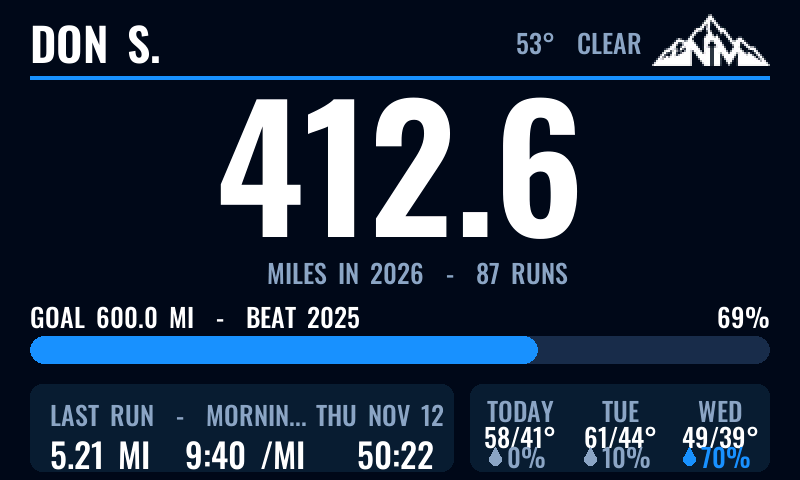
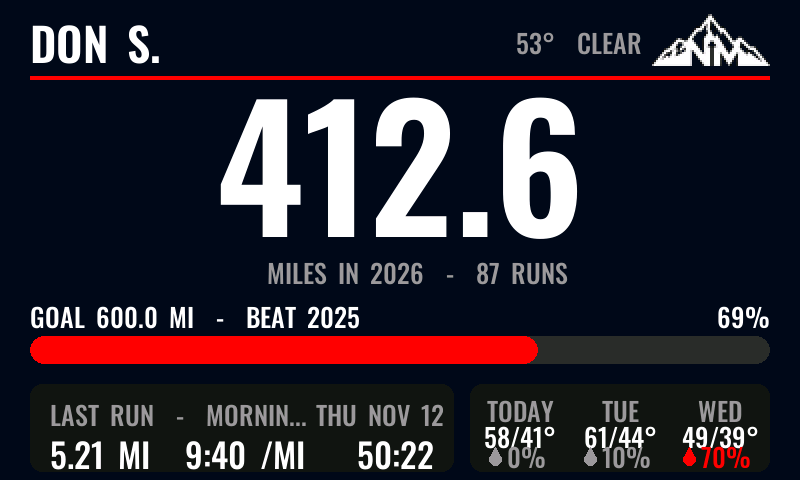
CrowPanel7: per-runner color themes, year-only race for Apple runners
Each runner picks their own theme (theme2 pref, two Colors rows on the
SCREEN tab in duo mode); the split screen draws each half in that
runner's theme. Together view shows only the THIS YEAR race column when
either runner uses Apple, which reports totals only.

diff --git a/firmware-crowpanel7/src/main.cpp b/firmware-crowpanel7/src/main.cpp
@@ -46,7 +46,7 @@ bool settingsOpen = false;
 enum SetTab { T_GOAL, T_RUN, T_SCR, T_LED, T_WX, T_SYS };
 const char* const SET_TABS[] = {"GOAL", "RUNNERS", "SCREEN", "LIGHTS", "WEATHER", "SYSTEM"};
 enum SetId {
-  S_PICK, S_NAME, S_GOAL, S_KINDS, S_LINK, S_DUO, S_SHARED, S_THEME, S_BRIGHT, S_ADIM, S_NIGHT, S_PHOTO,
+  S_PICK, S_NAME, S_GOAL, S_KINDS, S_LINK, S_DUO, S_SHARED, S_THEME, S_THEME2, S_BRIGHT, S_ADIM, S_NIGHT, S_PHOTO,
   S_LEDON, S_LEDFX, S_LEDN, S_PLACE, S_TZ, S_WIFI, S_OTA, S_SYNC, S_PHONE, S_ERASE
 };
 ui::SetRow setRows[9];
@@ -250,6 +250,7 @@ void loadSettings() {
   c.bright = prefs.getUChar("bright", 200);
   c.kinds = prefs.getUChar("kinds", prefs.getBool("walks", false) ? 3 : 1);
   c.theme = prefs.getUChar("theme", 0);
+  c.theme2 = prefs.getUChar("theme2", 0);
   c.autoDim = prefs.getBool("adim", true);
   c.led = prefs.getUChar("led", 1);
   c.place = prefs.getString("place", "");
@@ -718,9 +719,12 @@ void setApply(int id, int dir) {  // dir: -1 left/minus, +1 right/plus, 0 the ro
       break;
     case S_SHARED: c.sharedGoal = max(0.0f, c.sharedGoal + dir * 50); break;
     case S_THEME:
-      c.theme = (c.theme + dir + ui::themeCount()) % ui::themeCount();
-      ui::setTheme(c.theme);
+    case S_THEME2: {
+      uint8_t& t = app::themeOf(id == S_THEME2 ? 1 : (c.duo ? 0 : setRunner));
+      t = (uint8_t)((t + dir + ui::themeCount()) % ui::themeCount());
+      ui::setTheme(c.duo ? t : c.theme);
       break;
+    }
     case S_BRIGHT: c.bright = constrain((int)c.bright + dir * 13, 20, 255); break;
     case S_ADIM: c.autoDim = !c.autoDim; break;
     case S_NIGHT: c.nightClock = !c.nightClock; break;
@@ -782,7 +786,15 @@ void buildRows() {
       sRow(0, ui::ROW_LINE, "Tap the miles to see both runners together.");
       break;
     case T_SCR:
-      sRow(S_THEME, ui::ROW_CHOICE, "Colors", ui::themeName(c.theme));
+      if (c.duo) {
+        char lbl[44];
+        const char* n1 = app::nameOf(0).length() ? app::nameOf(0).c_str() : "runner 1";
+        const char* n2 = app::nameOf(1).length() ? app::nameOf(1).c_str() : "runner 2";
+        snprintf(lbl, sizeof lbl, "Colors, %s", n1);
+        sRow(S_THEME, ui::ROW_CHOICE, lbl, ui::themeName(app::themeOf(0)));
+        snprintf(lbl, sizeof lbl, "Colors, %s", n2);
+        sRow(S_THEME2, ui::ROW_CHOICE, lbl, ui::themeName(app::themeOf(1)));
+      } else sRow(S_THEME, ui::ROW_CHOICE, "Colors", ui::themeName(c.theme));
       { char v[12]; snprintf(v, sizeof v, "%d%%", c.bright * 100 / 255); sRow(S_BRIGHT, ui::ROW_STEP, "Brightness", v); }
       sRow(S_ADIM, ui::ROW_TOGGLE, "Dim in a dark room", "", c.autoDim);
       sRow(S_NIGHT, ui::ROW_TOGGLE, "Night clock", "", c.nightClock, "Dim clock instead of off");
@@ -1097,6 +1109,7 @@ void saveSettings() {
   prefs.putUChar("bright", cfg.bright);
   prefs.putUChar("kinds", cfg.kinds);
   prefs.putUChar("theme", cfg.theme);
+  prefs.putUChar("theme2", cfg.theme2);
   prefs.putBool("adim", cfg.autoDim);
   prefs.putUChar("led", cfg.led);
   prefs.putString("place", cfg.place);
@@ -1177,6 +1190,7 @@ uint32_t lastSyncAgoS() {
 }
 
 int runners() { return cfg.duo ? 2 : 1; }
+uint8_t& themeOf(int i) { return i ? cfg.theme2 : cfg.theme; }
 String& nameOf(int i) { return i ? cfg.name2 : cfg.name; }
 float& goalOf(int i) { return i ? cfg.goalMi2 : cfg.goalMi; }
 uint8_t& kindsOf(int i) { return i ? cfg.kinds2 : cfg.kinds; }
@@ -1239,6 +1253,8 @@ UiData uiData(int i) {
   d.wifi_ok = netUp;
   d.sync_error = R.lastResult != src::OK || R.needRelink;
   d.source = R.kind == src::GOOGLE ? "FITBIT" : R.kind == src::APPLE ? "APPLE" : R.kind == src::POLAR ? "POLAR" : R.kind == src::GARMIN ? "GARMIN" : "STRAVA";
+  d.theme = themeOf(i);
+  d.totals_only = R.kind == src::APPLE;
   return d;
 }
 

diff --git a/firmware-crowpanel7/src/ui.cpp b/firmware-crowpanel7/src/ui.cpp
@@ -362,6 +362,7 @@ void forecast(lgfx::LovyanGFX& g, const UiData& d, int px, int py, int pw, int p
 
 // One runner in the area x0..x0+w: the full screen, or one half of the split screen.
 void runner(lgfx::LovyanGFX& g, const UiData& d, int x0, int w, const char* fallback, bool icon, const char* right) {
+  setTheme(d.theme);
   const bool half = w < W;
   const float miles = d.ytd_m / 1609.344f;
   char big[24];
@@ -396,12 +397,14 @@ void main(lgfx::LovyanGFX& g, const UiData& d) {
 }
 
 void duo(lgfx::LovyanGFX& g, const UiData& a, const UiData& b) {
+  const int saved = cur;
   bg(g);
   runner(g, a, 0, W / 2, "Runner 1", false, nullptr);
   runner(g, b, W / 2, W / 2, "Runner 2", false, nullptr);
   g.fillRect(W / 2 - 1, 20, 2, H - 40, c(g, TRACK));
   if (a.sync_error) g.fillCircle(8, H - 8, 5, c(g, RED));
   if (b.sync_error) g.fillCircle(W - 8, H - 8, 5, c(g, RED));
+  setTheme(saved);
 }
 
 void together(lgfx::LovyanGFX& g, const UiData& a, const UiData& b, float sharedGoal) {
@@ -455,11 +458,14 @@ void together(lgfx::LovyanGFX& g, const UiData& a, const UiData& b, float shared
   const bool fc = a.fc[0].valid;
   const int ry = fc ? 330 : 340, rh = fc ? 78 : 132;
   g.fillRoundRect(M, ry, W - 2 * M, rh, 12, c(g, PANEL));
+  const bool totalsOnly = a.totals_only || b.totals_only;
   const char* const P[3] = {"THIS WEEK", "THIS MONTH", "THIS YEAR"};
   const float va[3] = {a.week_m, a.month_m, a.ytd_m}, vb[3] = {b.week_m, b.month_m, b.ytd_m};
-  const int cw = (W - 2 * M) / 3;
-  for (int k = 0; k < 3; k++) {
-    const int cx = M + cw * k + cw / 2;
+  const int nCols = totalsOnly ? 1 : 3;
+  const int cw = (W - 2 * M) / nCols;
+  for (int kk = 0; kk < nCols; kk++) {
+    const int k = totalsOnly ? 2 : kk;  // totals only: just the year column
+    const int cx = M + cw * kk + cw / 2;
     text(g, &f_label, GREY, PANEL, top_center, P[k], cx, ry + (fc ? 4 : 24));
     const float d = (va[k] - vb[k]) / 1609.344f;
     char line[48], n[16];

diff --git a/sim/sim7_main.cpp b/sim/sim7_main.cpp
@@ -66,6 +66,7 @@ int main() {
     strcpy(b.athlete, "Jamie S.");
     b.ytd_m = 287.3f * 1609.344f; b.ytd_runs = 61; b.goal_mi = 412.0f; b.last_year_mi = 412.0f;
     strcpy(b.last.name, "Sunday Long Run"); b.last.meters = 16093; b.last.moving_s = 5520;
+    a.theme = 0; b.theme = 2;  // each runner picks their own colors
     ui::duo(s, a, b); save(s, "out7/duo.ppm");
     for (uint32_t ms = 1000; ms <= 3000; ms += 50) ui::confettiStep(s, ms);
     save(s, "out7/duo_confetti.ppm");
@@ -75,6 +76,8 @@ int main() {
     ui::together(s, a, b, 1000); save(s, "out7/together_shared.ppm");
     UiData an = a, bn = b; an.fc[0].valid = false;
     ui::together(s, an, bn); save(s, "out7/together_nofc.ppm");
+    UiData aa = a, ab = b; aa.totals_only = true;  // Apple runner: year-only race
+    ui::together(s, aa, ab); save(s, "out7/together_apple.ppm");
     UiData both[2] = {a, b};
     ui::night(s, both, 2, "10:42", "PM", "MONDAY, NOVEMBER 16"); save(s, "out7/night_duo.ppm");
     ui::night(s, both, 1, "6:05", "AM", "TUESDAY, NOVEMBER 17"); save(s, "out7/night.ppm");
@@ -131,7 +134,8 @@ int main() {
     };
     ui::settings(s, tabs, 6, 1, rr, 3, "Now link runner 2's watch: GOAL tab, Link a watch"); save(s, "out7/set_runners.ppm");
     ui::SetRow sc[] = {
-      {7, ui::ROW_CHOICE, "Colors", "EMBER"},
+      {7, ui::ROW_CHOICE, "Colors, Don", "EMBER"},
+      {7, ui::ROW_CHOICE, "Colors, Jamie", "OCEAN"},
       {8, ui::ROW_STEP, "Brightness", "100%"},
       {9, ui::ROW_TOGGLE, "Dim in a dark room", "", true},
       {10, ui::ROW_TOGGLE, "Night clock", "", true, "Dim clock instead of off"},

diff --git a/firmware-crowpanel7/src/app.h b/firmware-crowpanel7/src/app.h
@@ -13,7 +13,8 @@ struct Settings {
   float goalMi = 0;       // 0 = beat last year
   uint8_t bright = 200;
   uint8_t kinds = 1;      // what counts: 1 runs, 2 walks and hikes, 3 both
-  uint8_t theme = 0;      // ui colour theme index
+  uint8_t theme = 0;      // ui colour theme index (runner 1)
+  uint8_t theme2 = 0;     // ui colour theme index (runner 2)
   bool autoDim = true;    // dim with the light sensor, off in a dark room
   uint8_t led = 1;        // 0 off, 1 new runs + milestones, 2 also glow when ahead of goal pace
   String place;           // weather location as typed (ZIP or city)
@@ -47,6 +48,7 @@ void photoChanged();  // /photo.jpg was uploaded or removed
 UiData uiData();  // the runner the settings page is on
 UiData uiData(int runner);
 int runners();  // 1, or 2 in two-runner mode
+uint8_t& themeOf(int runner);
 String& nameOf(int runner);
 float& goalOf(int runner);
 uint8_t& kindsOf(int runner);

diff --git a/firmware-crowpanel7/src/ui.h b/firmware-crowpanel7/src/ui.h
@@ -40,6 +40,8 @@ struct UiData {
   const char* wx_desc = "";
   DayFc fc[3];
   float today_m = 0, week_m = 0, month_m = 0;  // this runner's miles today, since Monday, this month
+  int theme = 0;            // this runner's colour theme
+  bool totals_only = false; // provider reports year totals only (Apple): no today/week/month
 };
 
 namespace ui {
